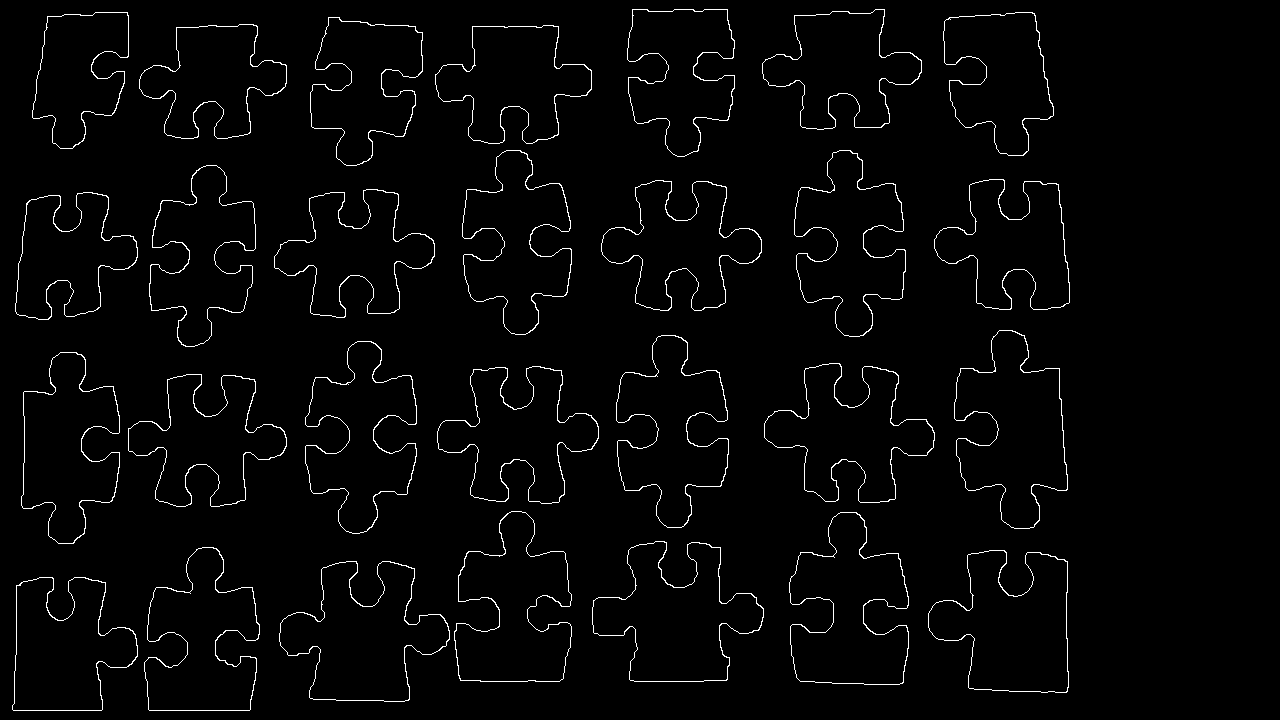
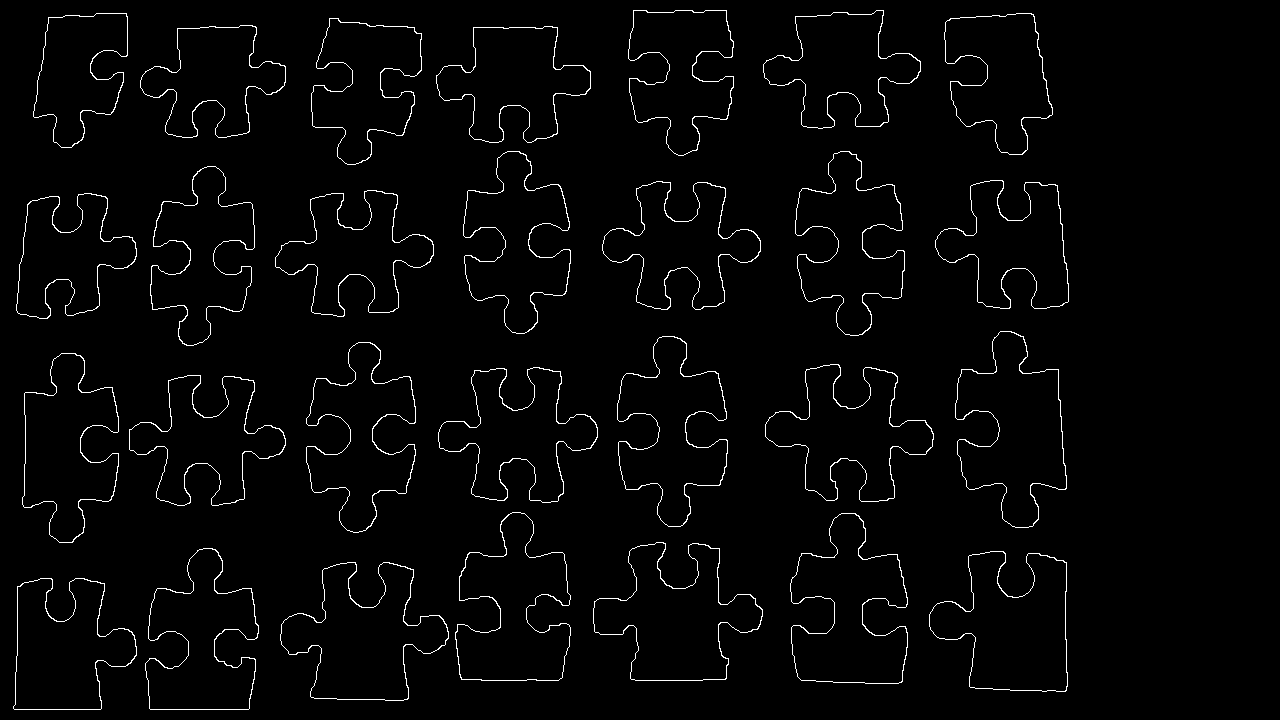
Mon Mar 24 05:38:20 PM CET 2025

diff --git a/src/analyse.cpp b/src/analyse.cpp
@@ -175,36 +175,8 @@ int main() {
 
     write_image_png(srgb(labels_img), "data/analyse/labels.png", false);
 
-    /* ---- Extract Pieces ---- */
-    std::filesystem::create_directory("data/analyse/pieces");
-    std::filesystem::create_directory("data/analyse/piece-masks");
-
-    unsigned int num_piece = 1;
-    for(const auto& [label, position] : labelPositions) {
-        unsigned int padding = 10;
-        unsigned int w = position.maxX - position.minX;
-        unsigned int h = position.maxY - position.minY;
-
-        Image piece(w + 2 * padding, h + 2 * padding, background);
-        Image piece_mask(w + 2 * padding, h + 2 * padding, White());
-
-        for(unsigned int j = 0 ; j < h ; ++j) {
-            for(unsigned int i = 0 ; i < w ; ++i) {
-                piece(i + padding, j + padding) = puzzle(i + position.minX, j + position.minY);
-                piece_mask(i + padding, j + padding) = Color(binaryMask(i + position.minX, j + position.minY));
-            }
-        }
-
-        std::string strNum = (num_piece < 10) ? '0' + std::to_string(num_piece) : std::to_string(num_piece);
-
-        write_image_png(srgb(piece), ("data/analyse/pieces/piece-" + strNum + ".png").c_str(), false);
-        write_image_png(srgb(piece_mask), ("data/analyse/piece-masks/piece-mask-" + strNum + ".png").c_str(), false);
-
-        ++num_piece;
-    }
-
     /* ---- Outline of pieces ---- */
-    Array2D<bool> Outline(width, height, false);
+    Array2D<bool> outline(width, height, false);
 
     for(const auto& [label, position] : labelPositions) {
         uvec2 first = { position.minX, position.minY };
@@ -216,7 +188,7 @@ int main() {
         bool found = false;
 
         do {
-            Outline(current.x, current.y) = true;
+            outline(current.x, current.y) = true;
 
             uvec2 neighbour;
             for(int j = -1 ; j <= 1 ; ++j) {
@@ -225,10 +197,9 @@ int main() {
                     neighbour = { current.x + i, current.y + j };
 
                     if(neighbour.x >= 0 && neighbour.y >= 0 && neighbour.x < width && neighbour.y < height
-                       && binaryMask(neighbour.x, neighbour.y)
-                       && !Outline(neighbour.x, neighbour.y)
-                       && applyStructuringElement(binaryMask, neighbour.x, neighbour.y, MathematicalMorphology::Square)
-                       >= 1) {
+                       && !binaryMask(neighbour.x, neighbour.y)
+                       && !outline(neighbour.x, neighbour.y)
+                       && 9 - applyStructuringElement(binaryMask, neighbour.x, neighbour.y, MathematicalMorphology::Square) >= 1) {
                         found = true;
                         break;
                     }
@@ -240,7 +211,39 @@ int main() {
             found = false;
         } while(current.x != first.x || current.y != first.y);
     }
-    write_boolean_array_as_grayscale_image("data/analyse/outline.png", Outline);
+    write_boolean_array_as_grayscale_image("data/analyse/outline.png", outline);
+
+    /* ---- Extract Pieces ---- */
+    std::filesystem::create_directory("data/analyse/pieces");
+    std::filesystem::create_directory("data/analyse/piece-masks");
+    std::filesystem::create_directory("data/analyse/piece-outlines");
+
+    unsigned int num_piece = 1;
+    for(const auto& [label, position] : labelPositions) {
+        unsigned int padding = 10;
+        unsigned int w = 1 + position.maxX - position.minX;
+        unsigned int h = 1 + position.maxY - position.minY;
+
+        Image piece(w + 2 * padding, h + 2 * padding, background);
+        Image piece_mask(w + 2 * padding, h + 2 * padding, White());
+        Image piece_outline(w + 2 * padding, h + 2 * padding, Black());
+
+        for(unsigned int j = 0 ; j < h ; ++j) {
+            for(unsigned int i = 0 ; i < w ; ++i) {
+                piece(i + padding, j + padding) = puzzle(i + position.minX, j + position.minY);
+                piece_mask(i + padding, j + padding) = Color(binaryMask(i + position.minX, j + position.minY));
+                piece_outline(i + padding, j + padding) = Color(outline(i + position.minX, j + position.minY));
+            }
+        }
+
+        std::string strNum = (num_piece < 10) ? '0' + std::to_string(num_piece) : std::to_string(num_piece);
+
+        write_image_png(srgb(piece), ("data/analyse/pieces/piece-" + strNum + ".png").c_str(), false);
+        write_image_png(srgb(piece_mask), ("data/analyse/piece-masks/piece-mask-" + strNum + ".png").c_str(), false);
+        write_image_png(srgb(piece_outline), ("data/analyse/piece-outlines/piece-outlines-" + strNum + ".png").c_str(), false);
+
+        ++num_piece;
+    }
 
     return 0;
 }
